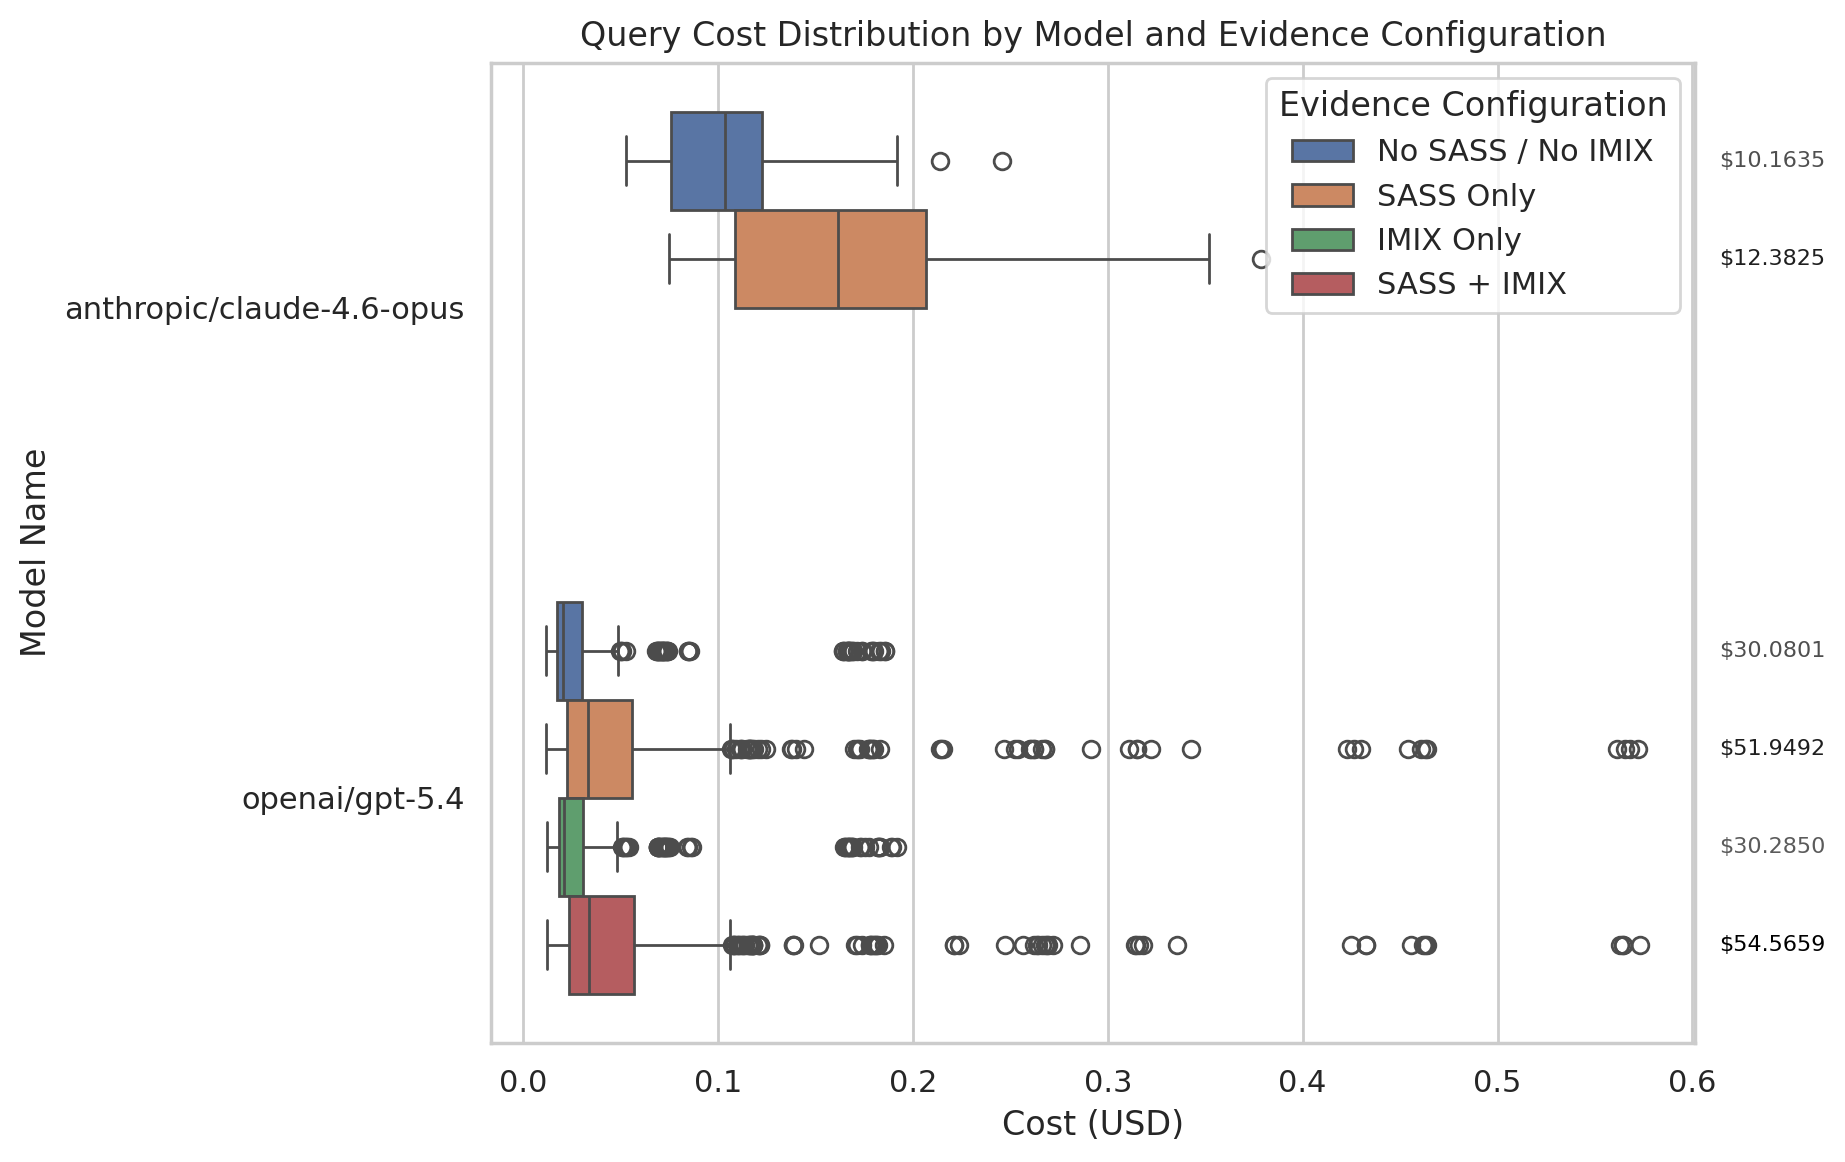
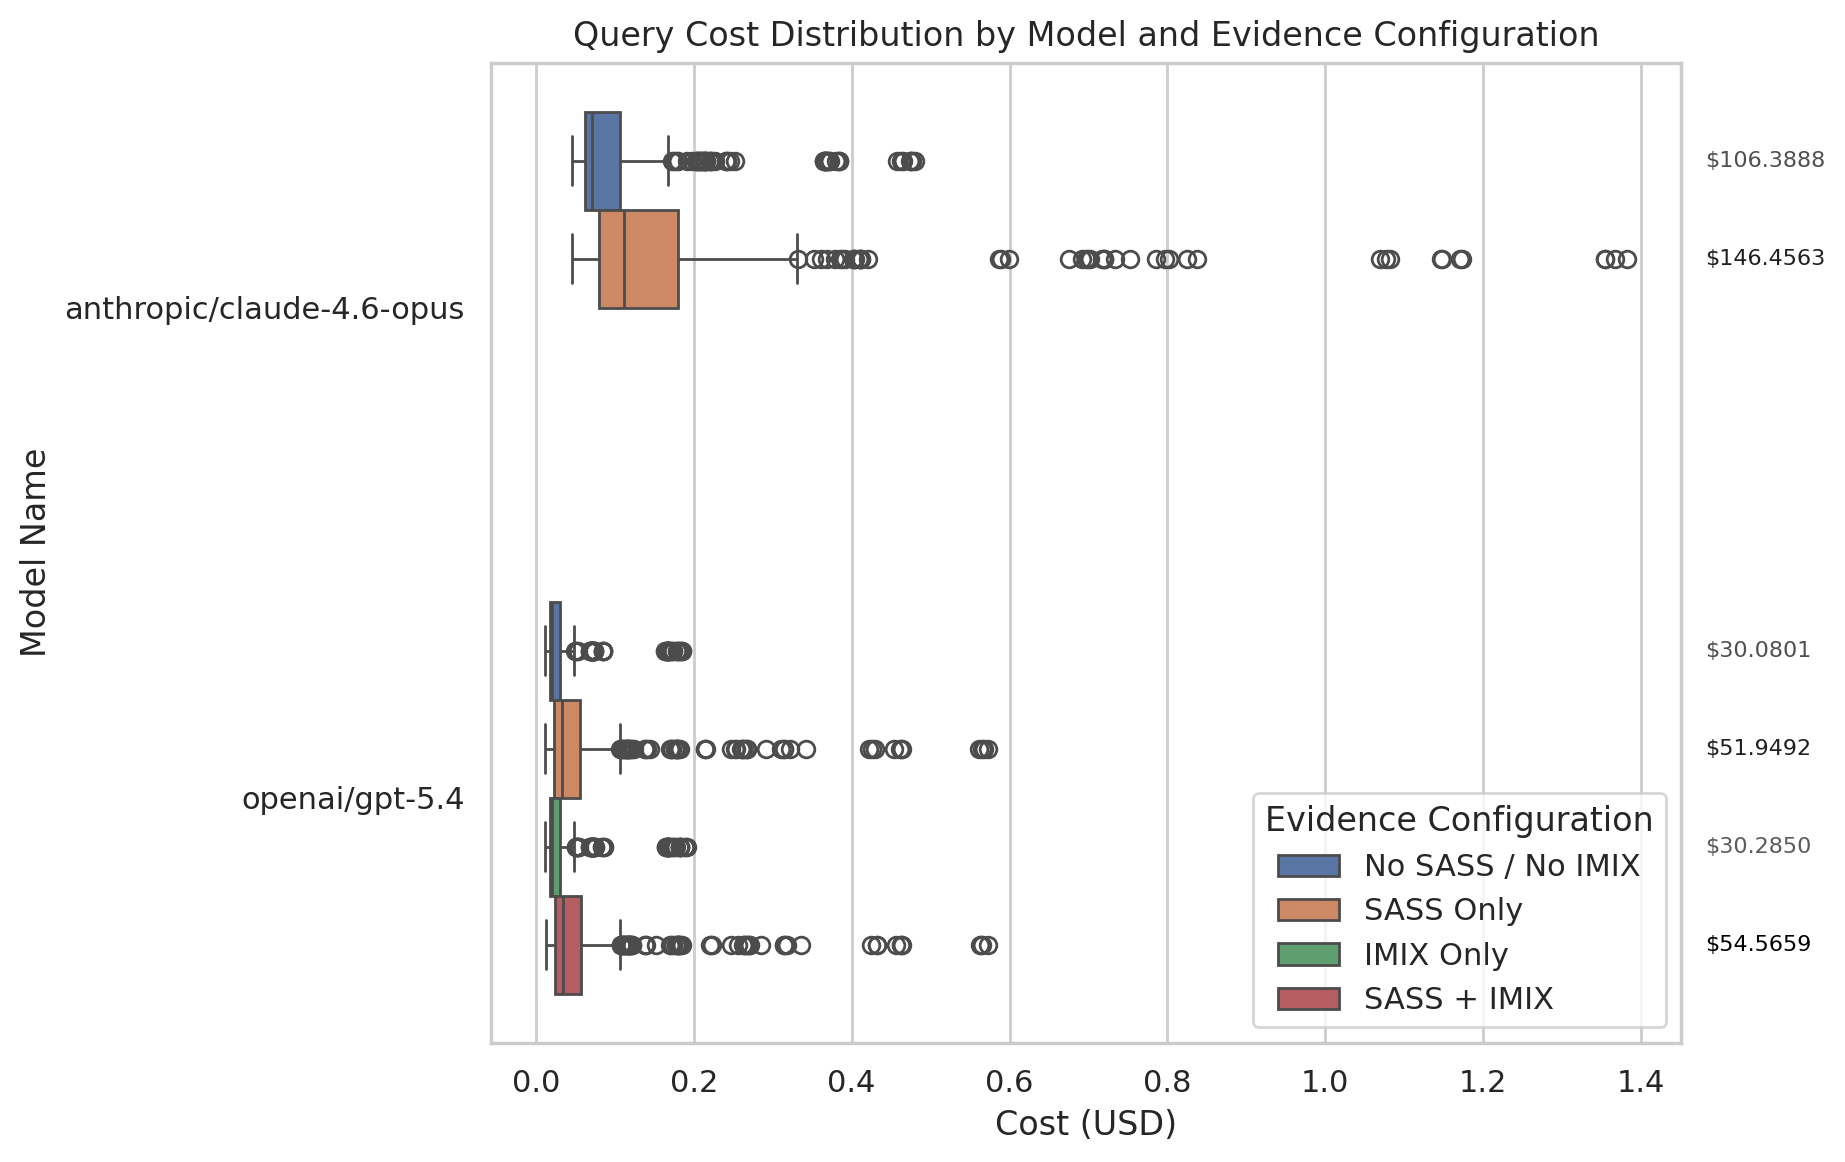
added claude to experiments to see how much different it performs

diff --git a/experiments/direct-prompting/visualization-output/table1_model_percent_diff_summary.tex b/experiments/direct-prompting/visualization-output/table1_model_percent_diff_summary.tex
@@ -6,9 +6,9 @@
 \toprule
 model\_name & evidence\_configuration & mean\_percent\_diff & median\_percent\_diff & completed\_samples & failed\_samples \\
 \midrule
-anthropic/claude-4.6-opus & No SASS / No IMIX & 729.1172 & 27.4055 & 100 & 0 \\
-anthropic/claude-4.6-opus & SASS Only & 321.9387 & 21.5025 & 73 & 0 \\
-anthropic/claude-opus-4.6 & SASS Only &  &  & 0 & 1 \\
+anthropic/claude-4.6-opus & No SASS / No IMIX & 28839.0801 & 28.0805 & 1148 & 0 \\
+anthropic/claude-4.6-opus & SASS Only & 4317.1586 & 20.2553 & 916 & 0 \\
+anthropic/claude-opus-4.6 & SASS Only &  &  & 0 & 2 \\
 openai/gpt-5.4 & IMIX Only & 149223.1579 & 28.6677 & 1068 & 0 \\
 openai/gpt-5.4 & No SASS / No IMIX & 217535.803 & 28.5714 & 1095 & 1 \\
 openai/gpt-5.4 & SASS + IMIX & 27501.0273 & 28.542 & 1052 & 0 \\
